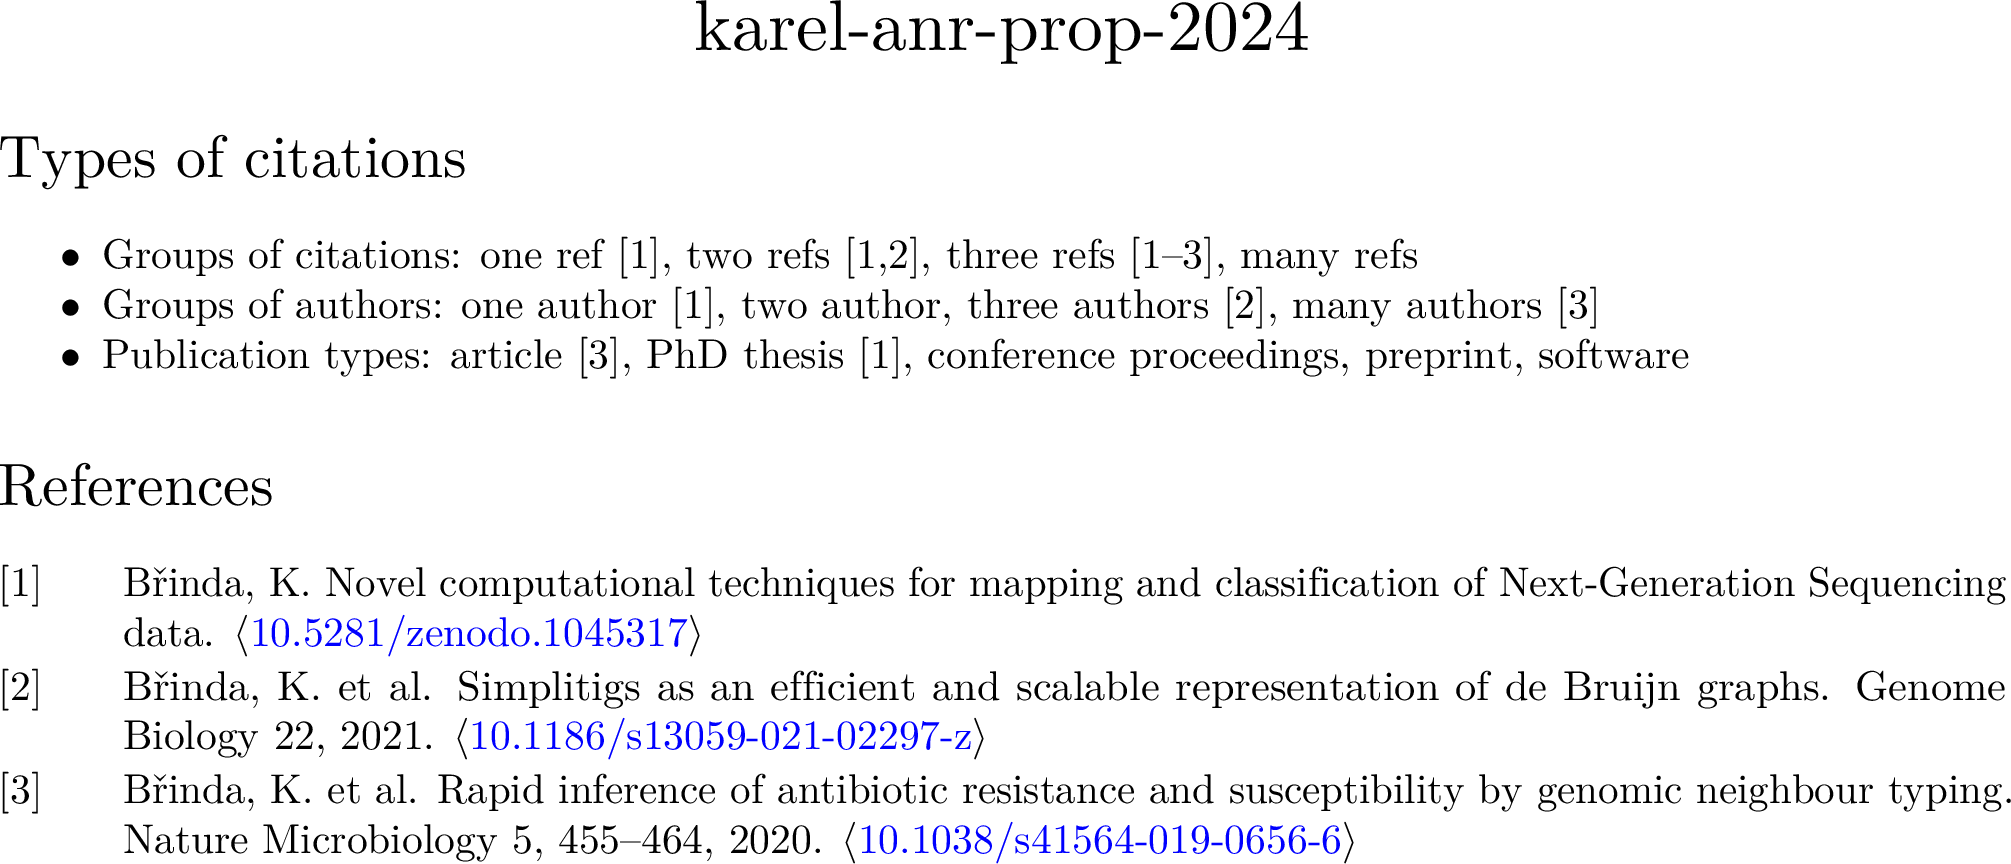
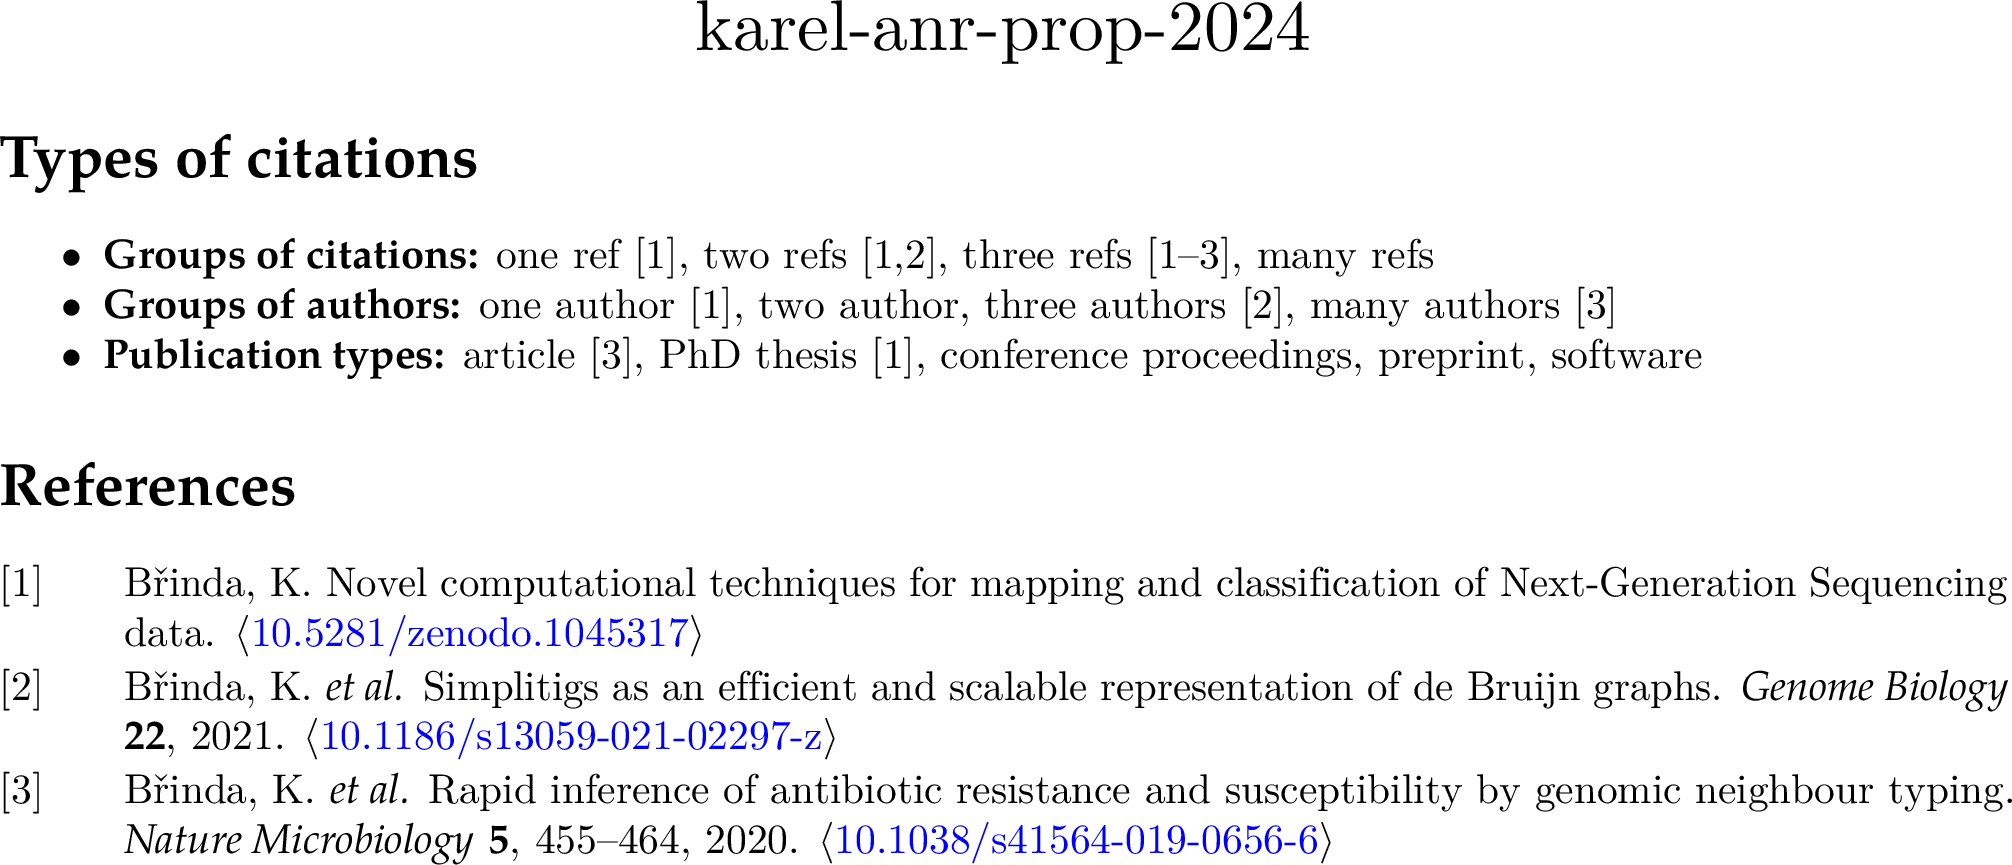
Fix bold and italics fonts

diff --git a/examples/header.tex b/examples/header.tex
@@ -25,3 +25,8 @@
 \fi
 
 
+%LMRoman10-Oblique
+%\setmainfont{texgyrepagella}[
+\setmainfont{Latin Modern Math}[
+      BoldFont = texgyrepagella-bold,
+      ItalicFont=texgyrepagella-italic]
